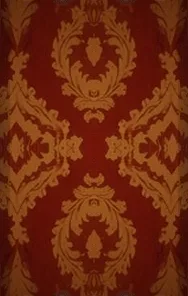
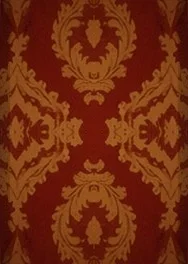
Finish the living room, Time Out and village polish
- Living-room banner: wallpaper, wainscot and floor cut from the room art and
  aligned with it row for row, so the room continues across every screen width;
  no snow falls indoors. The music video fills the whole TV screen.
- Sound and Enlarge buttons centred on the header's red/green split, each on
  its own colour; the label reads Sound on / Sound off.
- While the snowball fight is on, clicking anywhere in the page throws (hold to
  rapid-fire) and links wait; Time Out restores the normal cursor and page.
- Time Out is a small plaque (no warning diamond); the fish stand is larger.
- Santa's naughty list is readable, shown once, and he ignores snowballs until
  he drives on; the police truck pulls the ambulance out and flashes its lights
  when hit; medics pop up from behind the village trucks.
- Kenneth's Santa hat refit on the leadership portrait; Board photos spin when
  hit; page-header wording stays on the green on phones.

diff --git a/components/WinterMusicPlayer.module.css b/components/WinterMusicPlayer.module.css
@@ -38,7 +38,12 @@
 }
 /* Docked in the header: centred on the red-and-green split, right above the TV. */
 :global(.mems-site-nav .mems-nav-bar) { position: relative; }
-.controls[data-docked] { left: 50%; top: 50%; bottom: auto; translate: -50% -50%; z-index: 6; gap: 12px; }
+/* Centred on the diagonal red/green split (WinterMusicPlayer measures it), in the middle of the
+   band under the candy-cane ribbon; equal cells so each button sits the same distance from it. */
+.controls[data-docked] { left: var(--split-x, 50%); top: var(--band-y, 50%); bottom: auto; translate: -50% -50%; z-index: 6; gap: 0; }
+/* Wide enough cells that each label (lower down, where the slanted split sits further left)
+   stays entirely on its own colour. */
+.controls[data-docked] .knob { width: 86px; }
 .controls[data-docked] .toggle, .controls[data-docked] .resize { width: 34px; height: 34px; border-radius: 11px; }
 .knob { display: grid; justify-items: center; gap: 2px; }
 .knob small {
@@ -82,42 +87,46 @@
 .room {
   position: absolute;
   z-index: 0;
-  left: -280px;
-  top: -31.75px;
+  /* Measured from the art: the TV's glass (inside its light-grey rim) is 207.5 x 148 at
+     (273.5, 13.5) in this 760x200 room; the room is placed so that glass is centred on the
+     200 x 112.5 video. The outer 1.5% (the art's dark vignette) is masked away. */
+  left: -277.25px;
+  top: -31.25px;
   width: 760px;
   height: 200px;
   pointer-events: none;
   background: url("/images/winter/kit/living-room/living-room-still.webp") 0 0 / 100% 100% no-repeat;
-  -webkit-mask-image: linear-gradient(90deg, transparent, #000 4%, #000 96%, transparent);
-  mask-image: linear-gradient(90deg, transparent, #000 4%, #000 96%, transparent);
+  -webkit-mask-image: linear-gradient(90deg, transparent 1.5%, #000 5%, #000 95%, transparent 98.5%);
+  mask-image: linear-gradient(90deg, transparent 1.5%, #000 5%, #000 95%, transparent 98.5%);
 }
 /* The site's mobile rule caps spans in page content at 100% width; the room must stay 760px. */
 .player .room { max-width: none; }
 .roomVideo { position: absolute; inset: 0; display: block; width: 100%; height: 100%; object-fit: cover; }
-.tvScreen {
-  position: absolute;
-  left: 280px;
-  top: 15px;
-  width: 200px;
-  height: 146px;
-  border-radius: 11px / 13px;
-  background: radial-gradient(ellipse at 50% 42%, #141b21, #040607 72%);
-  box-shadow: inset 0 0 10px #000, inset 0 0 2px 1px #000;
-}
+.tvScreen { display: none; }
 .player iframe { position: relative; z-index: 1; border-radius: 6px; }
+/* On the TV the video fills the whole glass, edge to edge: scaled up to the glass height and
+   trimmed at the sides (148 / 112.5 = 1.3156; 207.5px of width stays visible). */
+.player:not([data-expanded="true"]) iframe {
+  transform: scale(1.3156);
+  clip-path: inset(0 21.14px round 2.3px);
+  border-radius: 0;
+  box-shadow: none;
+}
 .controls { z-index: 2; }
 .player[data-expanded="true"] .room { display: none; }
-/* The room sits at the bottom of the banner, leaving space above the TV for its buttons. */
-.player:not([data-expanded="true"]) { align-self: end; margin-bottom: 31.75px; }
+/* The room sits flush with the bottom of the banner (it reaches 56.25px below the video). */
+.player:not([data-expanded="true"]) { align-self: end; margin-bottom: 56.25px; }
 /* The whole banner is the living room: the painted room around the TV, and the same red damask
    wallpaper, wood wainscoting and floor running out to both edges. No snow falls indoors. */
 .stage:has(.player) {
   min-height: 200px;
   overflow: hidden;
   border-block: 1px solid #c9a35c;
+  /* Cut from the room picture itself and aligned with it row for row and in phase: the damask
+     from beside the tree, and the wainscot, baseboard and floor from beside the armchair. */
   background:
-    linear-gradient(180deg, #9a6438, #7b4a28 30%, #3d2412 34%, #5c3a21 38%, #6d4528 70%, #4a2d18) left bottom / 100% 77.5px no-repeat,
-    url("/images/winter/kit/living-room/wallpaper-tile.webp") center top / 94px 148px repeat,
+    url("/images/winter/kit/living-room/wainscot-strip.webp") left calc(50% - 243.25px) bottom 0 / 28px 77px repeat-x,
+    url("/images/winter/kit/living-room/wallpaper-tile.webp") left calc(50% - 236.25px) bottom 36px / 94px 132px repeat,
     #6e1718;
 }
 :global(html:has([data-winter-video])) :global(.winter-snowfall) { clip-path: inset(var(--room-bottom, 0px) 0 0 0); }

diff --git a/components/WinterMusicPlayer.tsx b/components/WinterMusicPlayer.tsx
@@ -83,6 +83,37 @@ function Soundtrack() {
   const room = useRef<HTMLVideoElement>(null);
   const timeout = useSnowballTimeout();
   const dock = useSyncExternalStore(noSubscription, headerDock, noDock);
+  // Centre the docked buttons on the header's diagonal red/green split (the bar's 113deg
+  // gradient, split at 49.15%), halfway down the band beneath the candy-cane ribbon.
+  const controlsRef = useRef<HTMLDivElement>(null);
+  useEffect(() => {
+    const group = controlsRef.current;
+    if (!dock || !group) return;
+    const theta = (113 * Math.PI) / 180, sin = Math.sin(theta), down = -Math.cos(theta);
+    let frameId = 0;
+    const place = () => {
+      frameId = 0;
+      const bar = dock.getBoundingClientRect();
+      if (!bar.width) return;
+      const ribbon = dock.querySelector<HTMLElement>(".mems-weather-ribbon")?.getBoundingClientRect();
+      const top = ribbon?.height ? Math.min(bar.height, Math.max(0, ribbon.bottom - bar.top)) : 0;
+      const bandY = (top + bar.height - 7) / 2;
+      const box = group.getBoundingClientRect();
+      const button = group.querySelector("button")?.getBoundingClientRect();
+      const lift = button ? button.top + button.height / 2 - (box.top + box.height / 2) : 0;
+      const y = bandY + lift;
+      const length = Math.abs(bar.width * sin) + Math.abs(bar.height * Math.cos(theta));
+      const x = bar.width / 2 + ((0.4915 - 0.5) * length - (y - bar.height / 2) * down) / sin;
+      group.style.setProperty("--split-x", `${x.toFixed(1)}px`);
+      group.style.setProperty("--band-y", `${bandY.toFixed(1)}px`);
+    };
+    const queue = () => { if (!frameId) frameId = requestAnimationFrame(place); };
+    place();
+    const sizes = new ResizeObserver(queue);
+    sizes.observe(dock);
+    window.addEventListener("resize", queue, { passive: true });
+    return () => { cancelAnimationFrame(frameId); sizes.disconnect(); window.removeEventListener("resize", queue); };
+  }, [dock]);
   // Snow falls outdoors only: the snowfall layer starts below the living-room banner.
   useEffect(() => {
     const banner = room.current?.closest("aside")?.parentElement;
@@ -274,8 +305,8 @@ function Soundtrack() {
           split right above the TV. */}
       {(() => {
         const buttons = (
-          <div className={styles.controls} data-docked={dock ? "" : undefined}>
-            <span className={styles.knob}>{control}<small aria-hidden="true">{enabled ? "Sound on" : "Muted"}</small></span>
+          <div ref={controlsRef} className={styles.controls} data-docked={dock ? "" : undefined}>
+            <span className={styles.knob}>{control}<small aria-hidden="true">{enabled ? "Sound on" : "Sound off"}</small></span>
             <span className={styles.knob}>
               <button id="winter-sound-expand" type="button" className={styles.resize} aria-controls={frameId}
                 aria-label={expanded ? "Make player smaller" : "Enlarge player"} title={expanded ? "Make player smaller" : "Enlarge player"}

diff --git a/components/WinterFightSign.module.css b/components/WinterFightSign.module.css
@@ -148,3 +148,18 @@
 :global(html[data-device="tesla"]) .plaque { width: 160px; padding-block: 8px; font-size: 11.7px; }
 @media (prefers-reduced-motion: reduce) { .beacon { animation: none; } .plaque { transition: none; } }
 @media print { .signs { display: none; } }
+
+/* Kept small: just the Time Out plaque on a short post (no warning diamond), so it never gets in
+   the way of the snowball fight. */
+.warning, .warning[hidden] { display: none !important; }
+.signs.village { gap: 0; }
+.village .plaque { width: clamp(58px, 7.2cqw, 112px); padding: .38em .5em; font-size: clamp(5.6px, .7cqw, 10.5px); }
+.village .plaque small { display: none; }
+.village .plaqueWrap .post { height: clamp(6px, 1.4cqw, 22px); }
+.village .mound { left: -.8cqw; right: -.8cqw; height: clamp(6px, .9cqw, 14px); }
+.signs.floating { gap: 0; }
+.floating .plaque { width: 108px; padding: 4px 6px; font-size: 7px; }
+.floating .plaque small { display: none; }
+@media (max-width: 700px) {
+  .floating .plaque { width: 92px; font-size: 6.4px; }
+}

diff --git a/components/winter-site-colors.css b/components/winter-site-colors.css
@@ -317,3 +317,19 @@
     border-bottom-color: #f3c87555;
   }
 }
+
+/* Phones and tablets: page headers are tall and narrow, so the masthead's diagonal would cut
+   through the title and intro. There the split moves to the far right, keeping all the wording on
+   the evergreen and leaving a cranberry corner. */
+@media screen and (forced-colors: none) and (max-width: 900px) {
+  html[data-mems-season="winter"] .mems-main-pad:not(:has(.hero-content))
+    :is(.mems-page-hero,
+      section[aria-labelledby="financial-library-title"],
+      section:has(> .wrap a[href="/forms"]):has(h1),
+      section:has(> .wrap h1):is([class~="bg-[#040d1a]"], [class~="from-[#071428]"]),
+      main > header:first-child:has(h1)) {
+    background:
+      repeating-linear-gradient(126deg, transparent 0 28px, #fff6ce0c 28px 29px, transparent 29px 54px),
+      linear-gradient(119deg, #08733d 0%, #006038 93.6%, #d8a848 93.7%, #ffdd72 93.95%, #b90d29 94.1%, #ce1631 100%) !important;
+  }
+}

diff --git a/components/WinterVillage.module.css b/components/WinterVillage.module.css
@@ -24,7 +24,7 @@
 }
 /* The snowball-fight road signs stand on the front snowbank, between the fish stand and the
    Grinch, below the ambulances' wheels. */
-.roadSign { position: absolute; z-index: 4; left: 64.2%; bottom: 2.4%; }
+.roadSign { position: absolute; z-index: 4; left: 66.4%; bottom: 2.4%; }
 .village {
   object-fit: cover;
   object-position: center 63%;
@@ -200,7 +200,7 @@
 /* The real red fish stand on the front snowbank, between the gold ambulance and the old fire engine
    (it sits below the vehicles' wheels, so it covers none of them). */
 .fishStand {
-  position: absolute; left: 43.5%; bottom: 2.2%; width: 19.5%; aspect-ratio: 917 / 709;
+  position: absolute; left: 41.8%; bottom: 2.2%; width: 22.9%; aspect-ratio: 917 / 709;
   filter: drop-shadow(0 3px 3px #27365788);
 }
 .fishHouse { position: absolute; inset: 0; width: 100%; height: 100%; }

diff --git a/components/WinterFightSign.tsx b/components/WinterFightSign.tsx
@@ -12,7 +12,7 @@ export default function WinterFightSign({ placement = "scene" }: { placement?: "
   return (
     <div className={placement === "scene" ? styles.signs : `${styles.signs} ${styles[placement]}`}
       data-winter-signs={placement} data-timeout={timeout}>
-      <span className={styles.warning} aria-hidden="true">
+      <span className={styles.warning} aria-hidden="true" hidden>
         <i className={styles.beacon} />
         <svg className={styles.diamond} viewBox="0 0 120 120" focusable="false">
           <defs>
